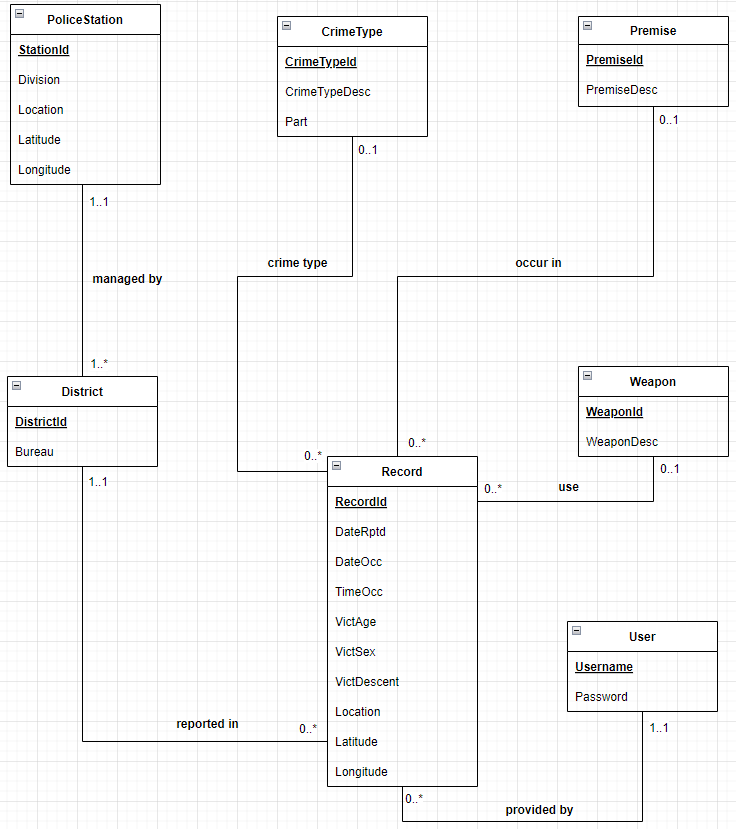
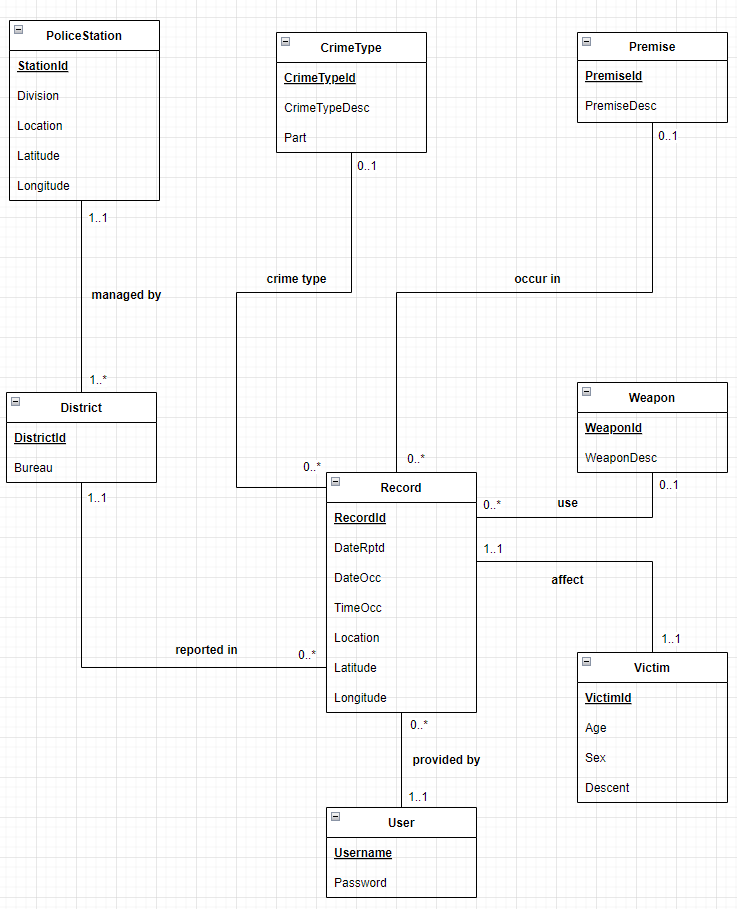
update UML and document

diff --git a/doc/Database Design/Design Document.md b/doc/Database Design/Design Document.md
@@ -12,7 +12,8 @@ We assume that:
 + Premise: The same Premise can appear in multiple Records.
 + Weapon: The same type of Weapon can be used in multiple crime Records.
 + User: Each user can provide any number of crime Records.
-+ Record: For each crime Record, it includes exactly 1 District, at most 1 CrimeType, Premise and Weapon. It should be provided by exactly 1 user.
++ Victim: Each Victim gets involved in exactly 1 crime Records.
++ Record: For each crime Record, it includes exactly 1 District, exactly 1 Victim, at most 1 CrimeType, Premise and Weapon. It should be provided by exactly 1 user.
 
 ## Description
 
@@ -22,6 +23,7 @@ We assume that:
 + use: Each crime Record uses at most 1 Weapon, while each Weapon is used in any number of crime Records.
 + occur in: Each crime Record occurs in at most 1 Premise, while each Premise may get involved in any number of crime Records.
 + crime type: Each crime Record includes at most 1 CrimeType, while each CrimeType may happen in any number of crime Records.
++ affect: Each crime Record affects exactly 1 Victim, while each Victim gets involved in exactly 1 Record.
 
 
 ## Cardinality
